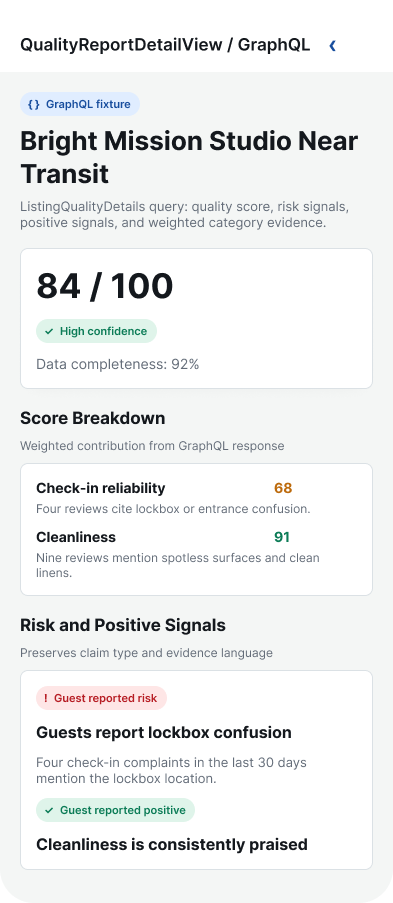
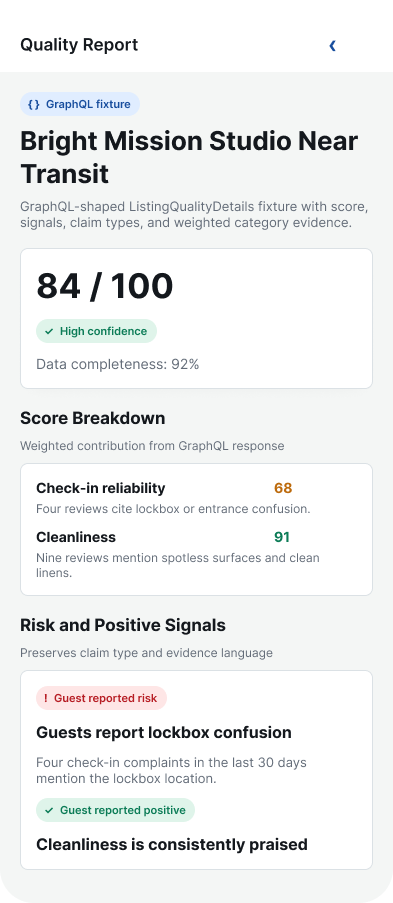
Update README app previews

Changed region(s): [[0.0611, 0.2171, 0.916, 0.2791], [0.1832, 0.031, 0.7939, 0.062]]

diff --git a/README.md b/README.md
@@ -29,9 +29,13 @@ Design reference: [ListingLens Figma component and screen file](https://www.figm
 
 These previews are Figma-rendered views of the implemented app screens. They are included here because the dashboard pages are taller than a single simulator viewport, while the live app remains the source of truth for behavior.
 
-| Host Dashboard | Guest Trust | Quality Report Detail |
-| --- | --- | --- |
-| ![Host Dashboard preview](docs/assets/app-preview-host-dashboard.png) | ![Guest Trust preview](docs/assets/app-preview-guest-trust.png) | ![Quality Report Detail preview](docs/assets/app-preview-quality-report-detail.png) |
+| Host Dashboard | Host Completed State |
+| --- | --- |
+| ![Host Dashboard preview](docs/assets/app-preview-host-dashboard.png) | ![Host Dashboard completed-state preview](docs/assets/app-preview-host-dashboard-completed.png) |
+
+| Guest Trust | Quality Report Detail |
+| --- | --- |
+| ![Guest Trust preview](docs/assets/app-preview-guest-trust.png) | ![Quality Report Detail preview](docs/assets/app-preview-quality-report-detail.png) |
 
 ## Quick Start
 
